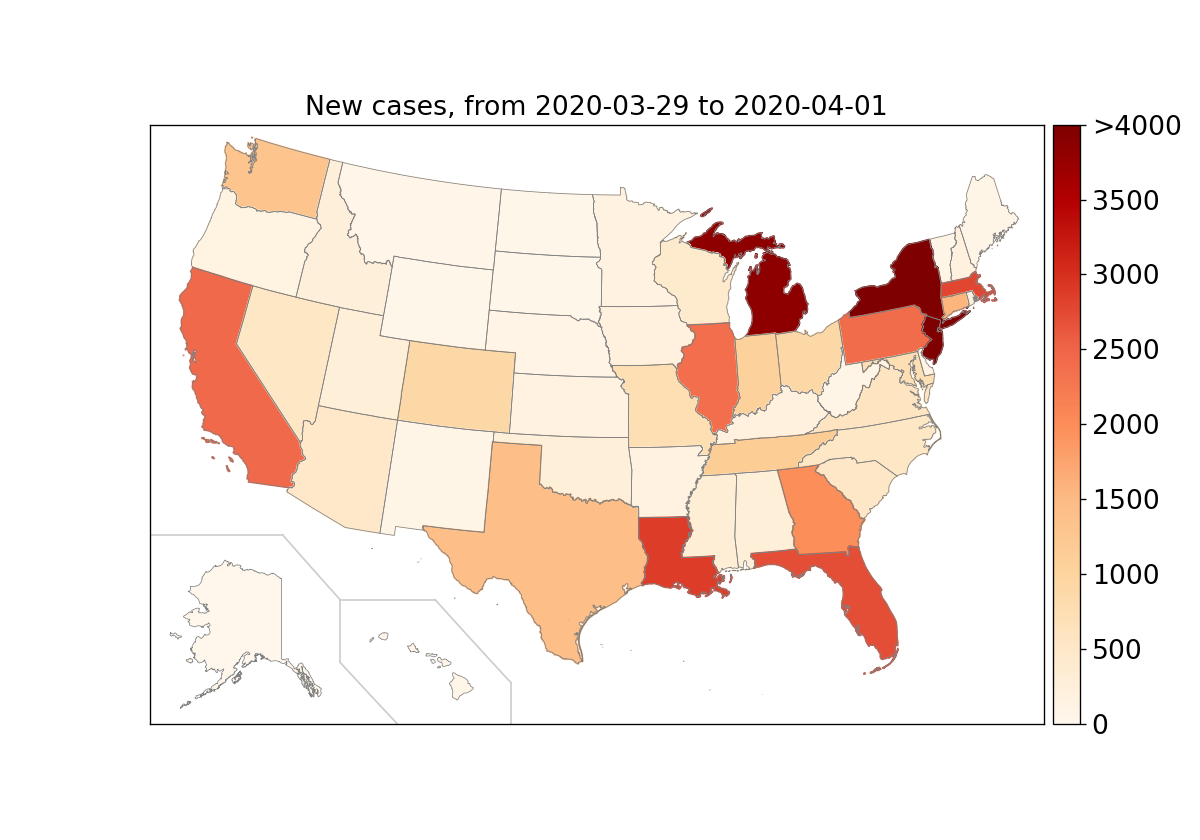
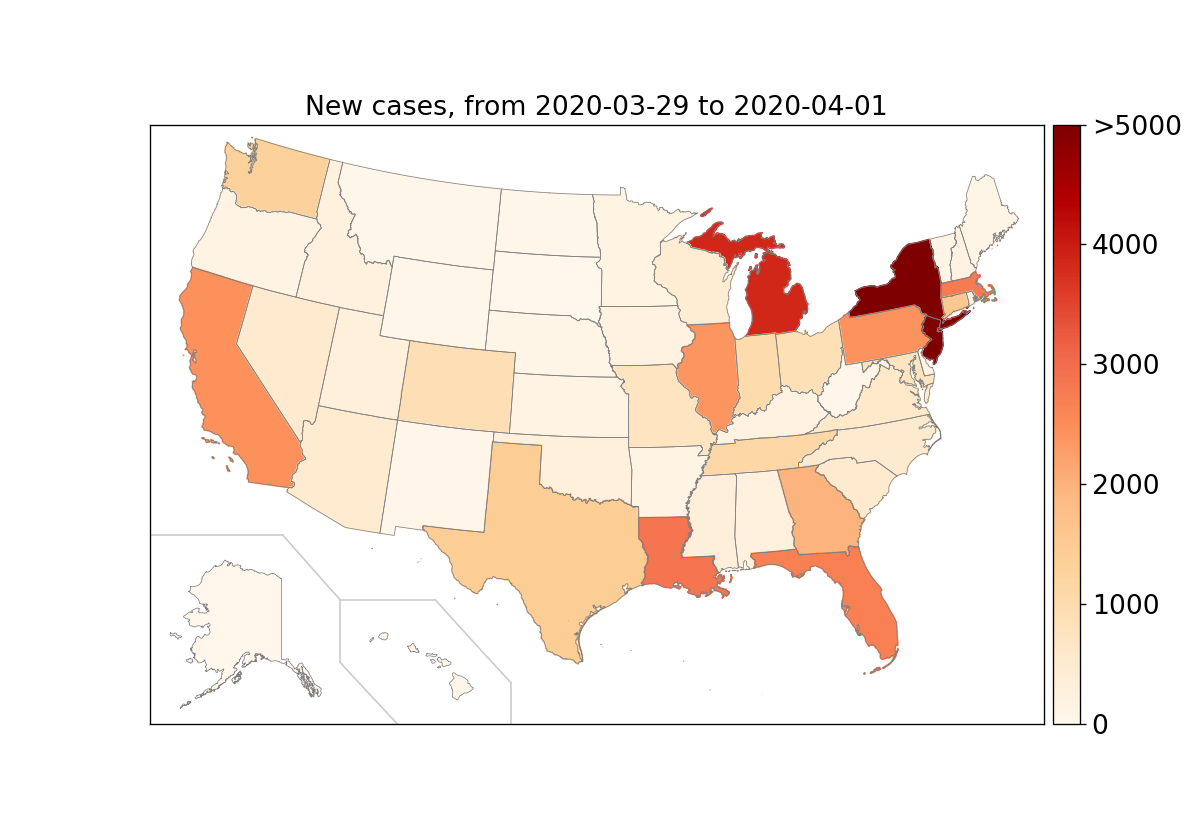
Adjust vmax of new cases map

diff --git a/scripts/Map_positive_case_increase_rate.py b/scripts/Map_positive_case_increase_rate.py
@@ -18,7 +18,7 @@ fig, ax = pu.choropleth_map_state(
     three_day_increase,
     map_title=f'New cases, from {three_days_ago} to {today}',
     unit='',
-    vmax=4000,
+    vmax=5000,
     vmin=0,
     dpi=120,
     fontsize=16,
